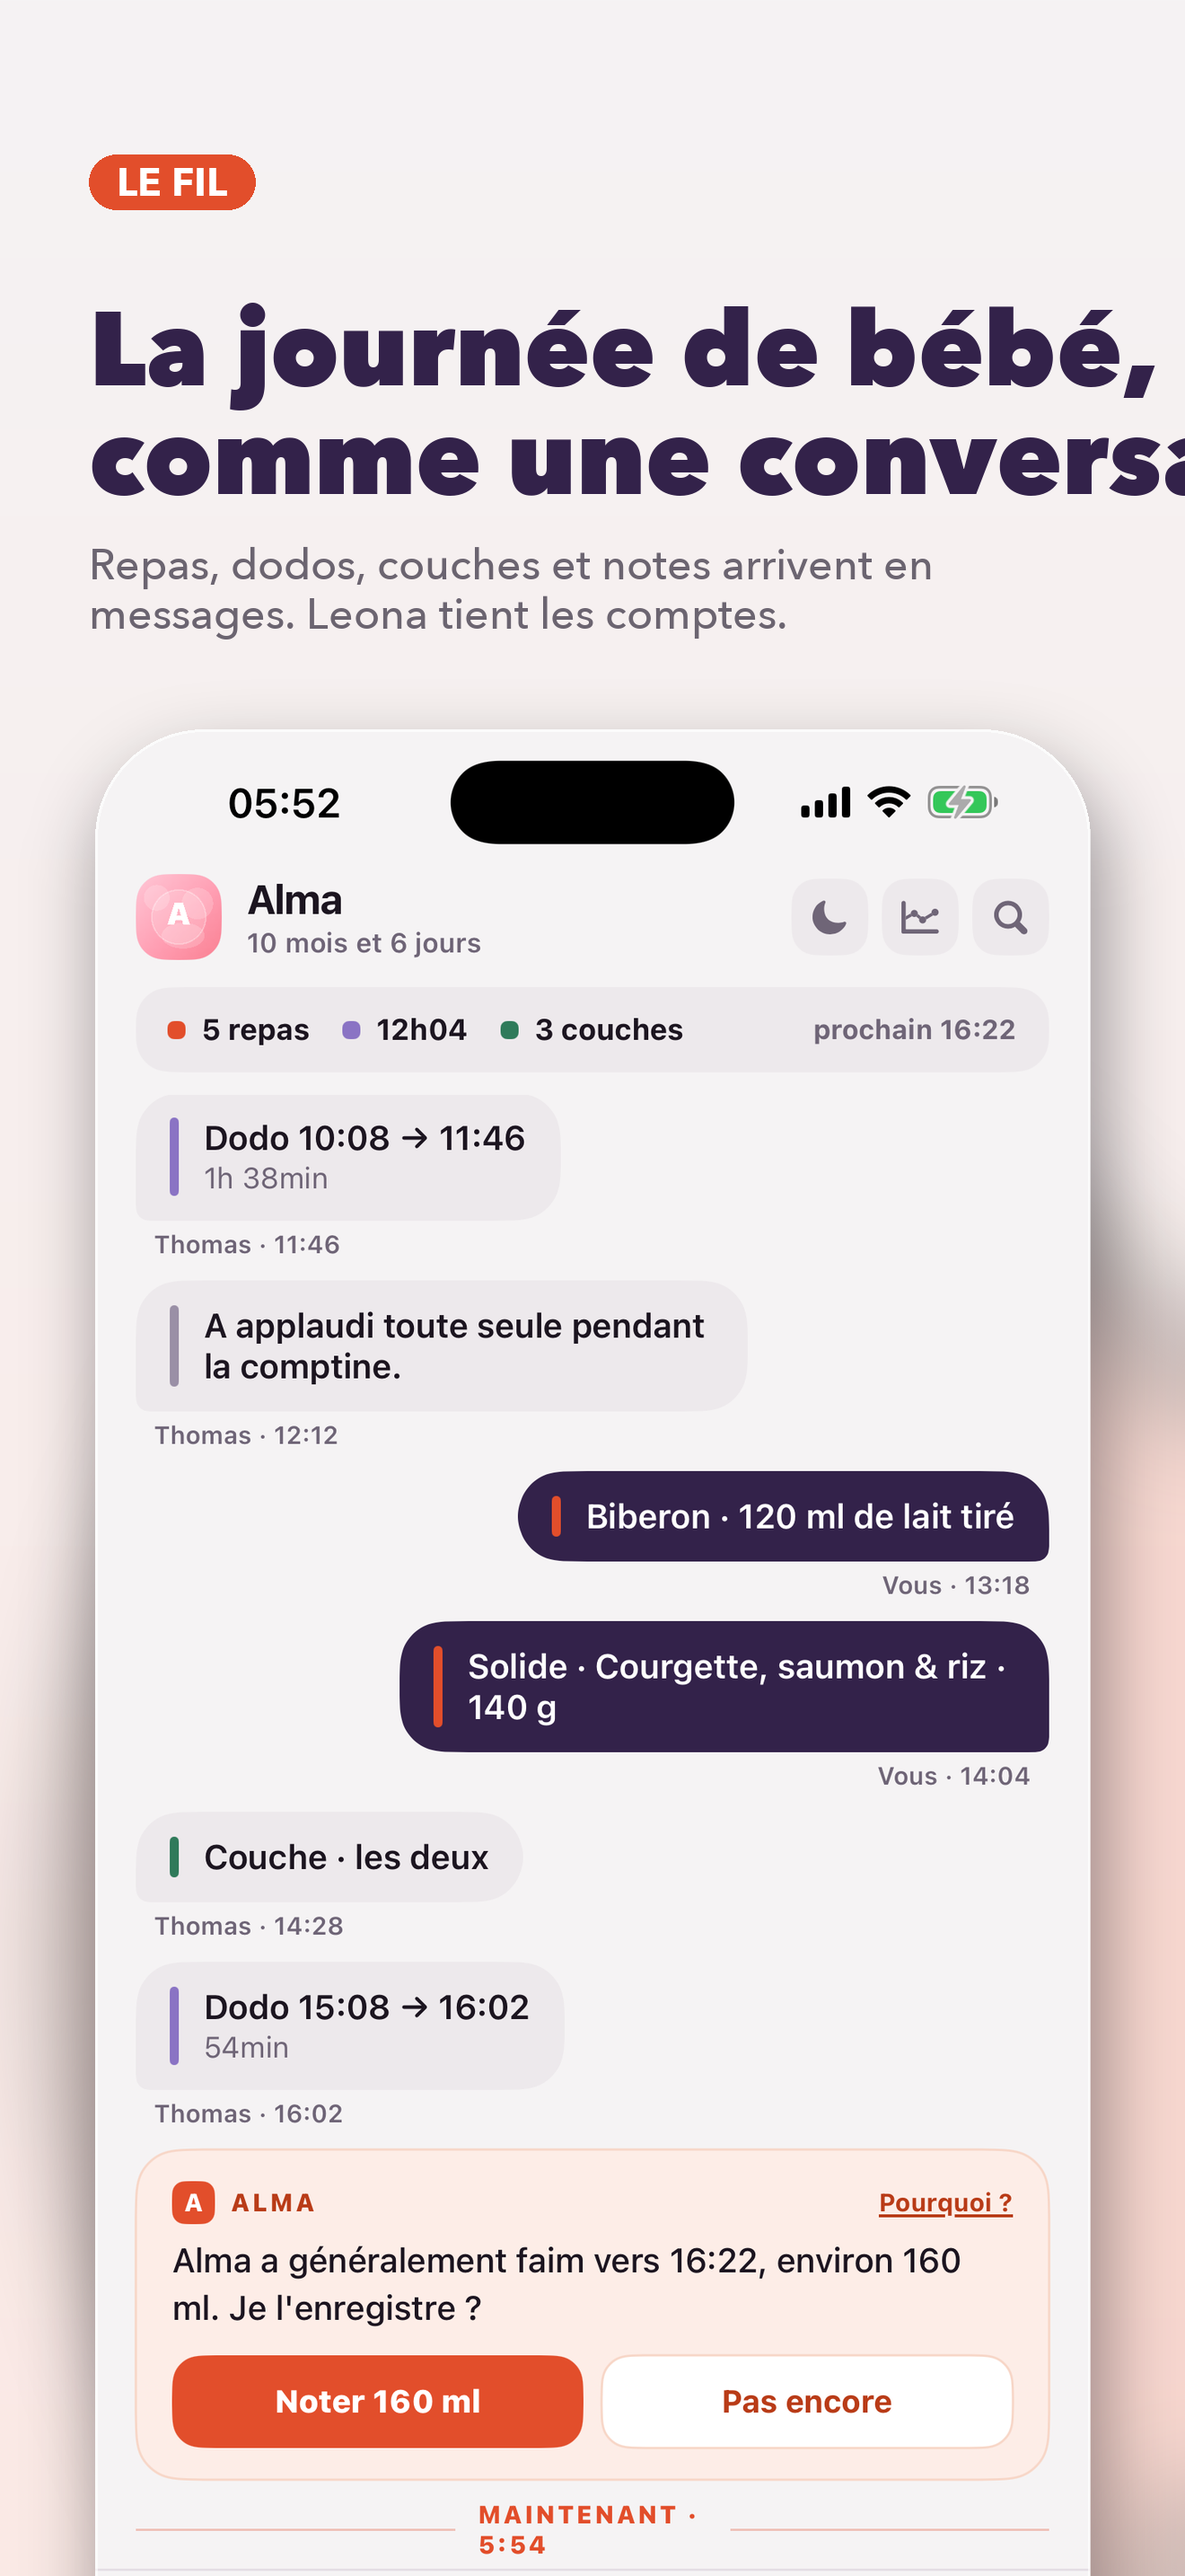
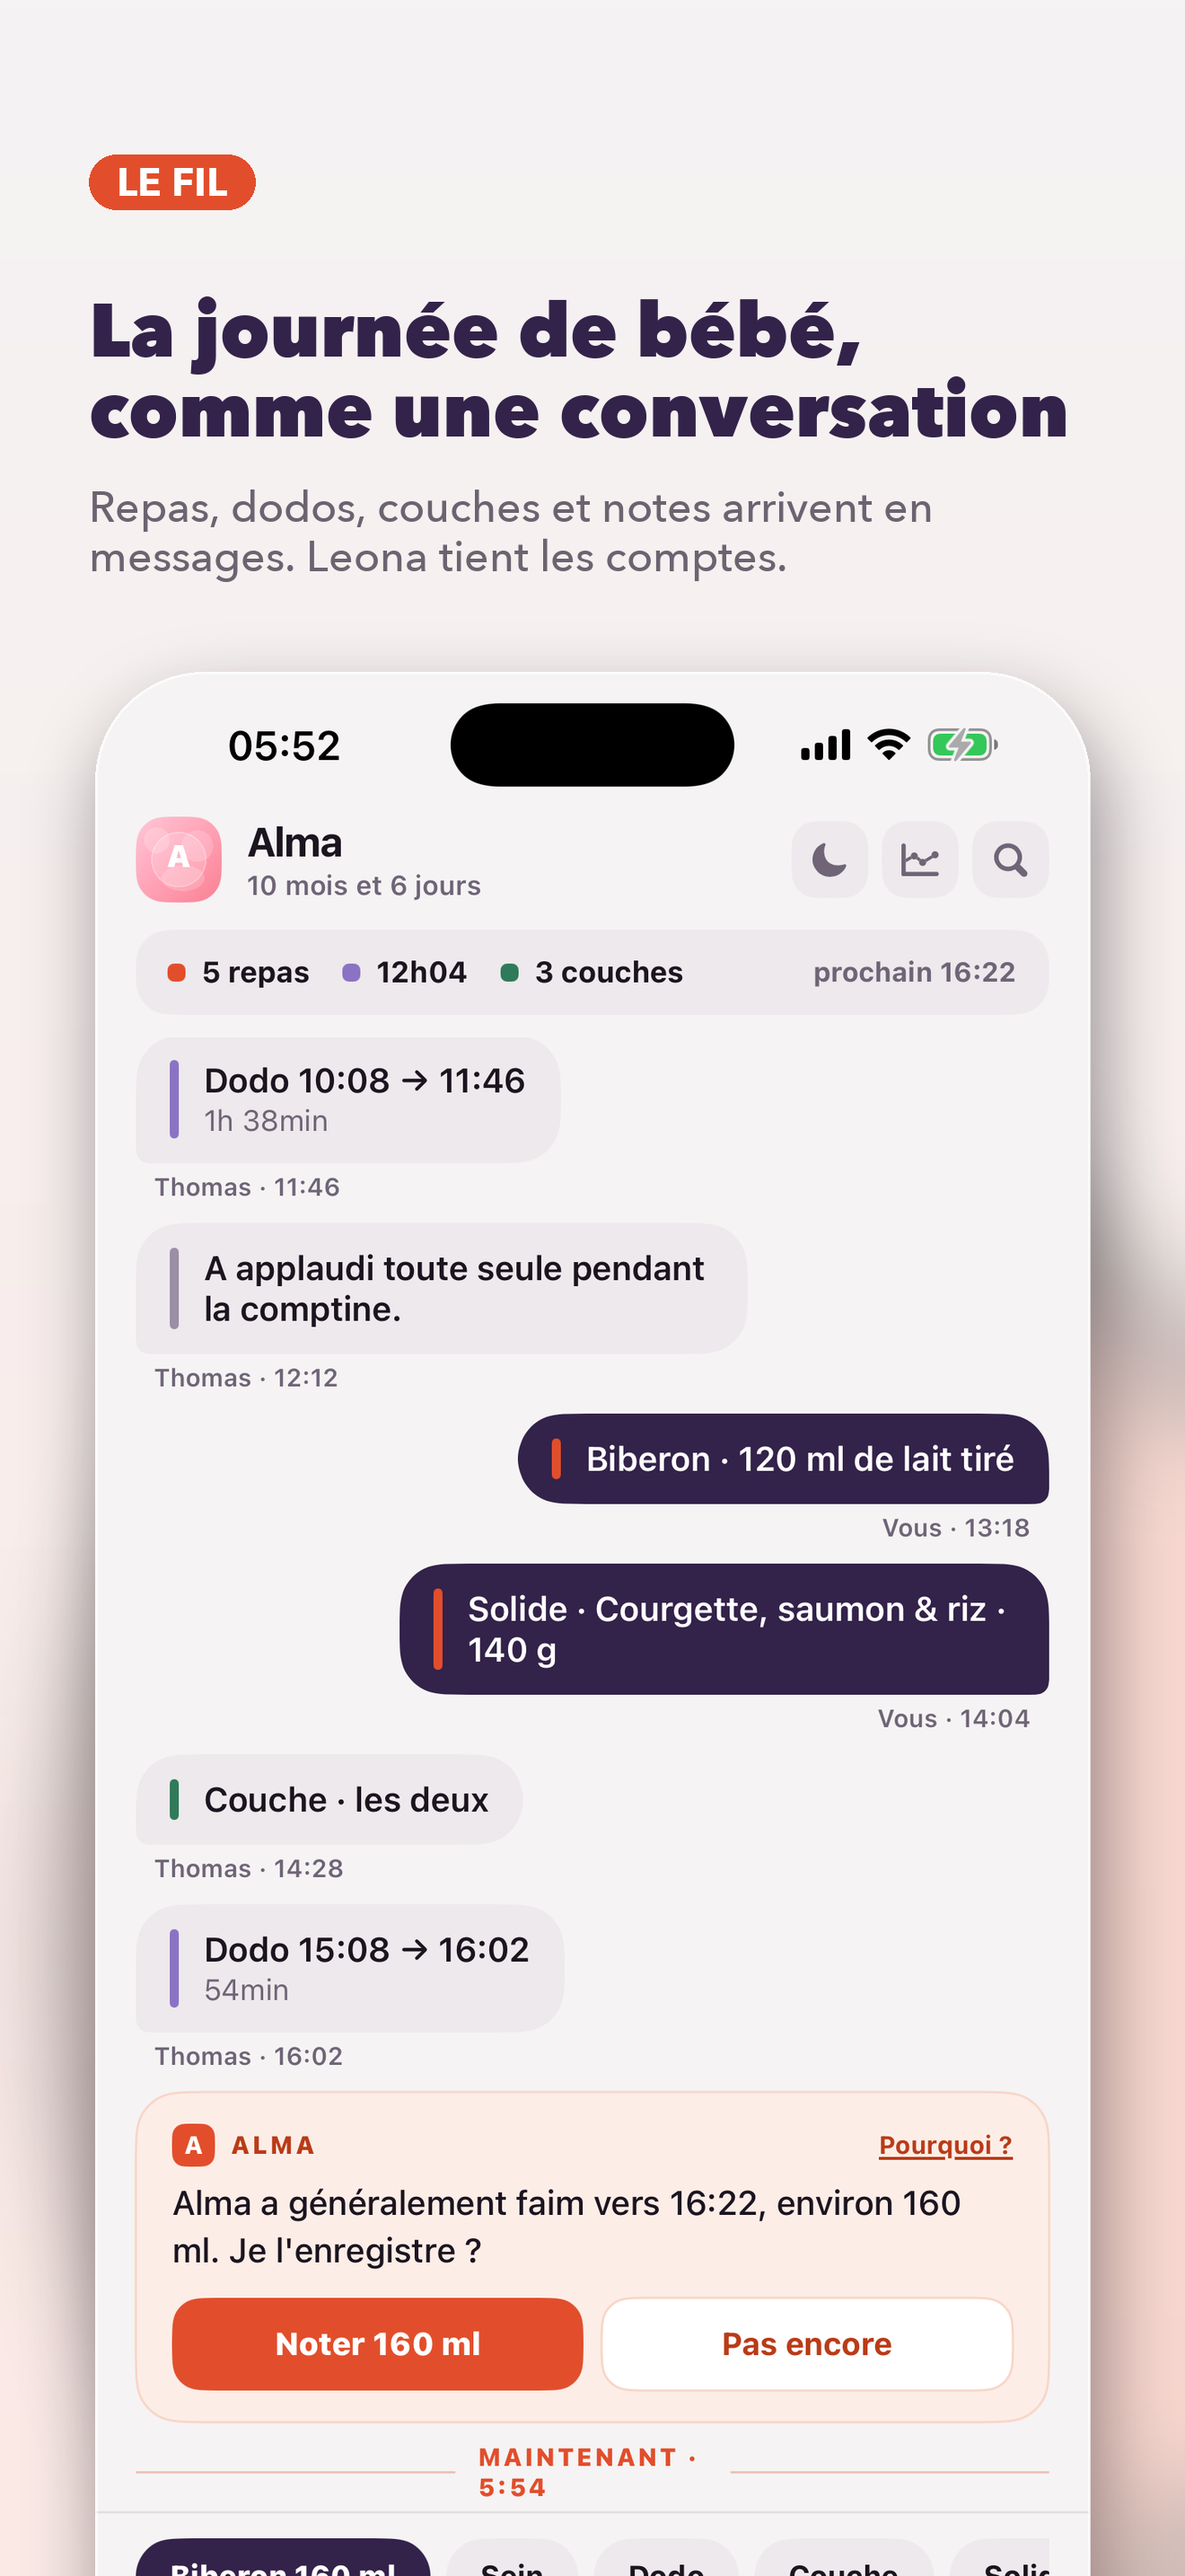
Promo frames: titles shrink to fit the width

diff --git a/generate_marketing_screenshots.py b/generate_marketing_screenshots.py
@@ -163,6 +163,18 @@ def load_font(face, size):
             return ImageFont.load_default()
 
 
+def fit_font(draw, text, face, base_size, max_width):
+    """Largest font at or below base_size whose widest line fits max_width."""
+    size = base_size
+    while size > base_size * 0.55:
+        font = load_font(face, size)
+        widest = max(draw.textlength(line, font=font) for line in text.split("\n"))
+        if widest <= max_width:
+            return font
+        size = int(size * 0.96)
+    return load_font(face, size)
+
+
 def gradient_background(size, top_color, bottom_color):
     width, height = size
     image = Image.new("RGB", size)
@@ -253,7 +265,8 @@ def compose(canvas_size, screenshot_path, output_path, cfg, lang, is_ipad):
 
     margin = int(width * 0.075)
     badge_font = load_font(FACE_BADGE, int(width * (0.026 if is_ipad else 0.034)))
-    title_font = load_font(FACE_TITLE, int(width * (0.066 if is_ipad else 0.088)))
+    # The title never runs past the right margin: long lines shrink the whole title.
+    title_font = fit_font(draw, title, FACE_TITLE, int(width * (0.066 if is_ipad else 0.088)), width - 2 * margin)
     subtitle_font = load_font(FACE_BODY, int(width * (0.028 if is_ipad else 0.037)))
 
     # Badge pill
